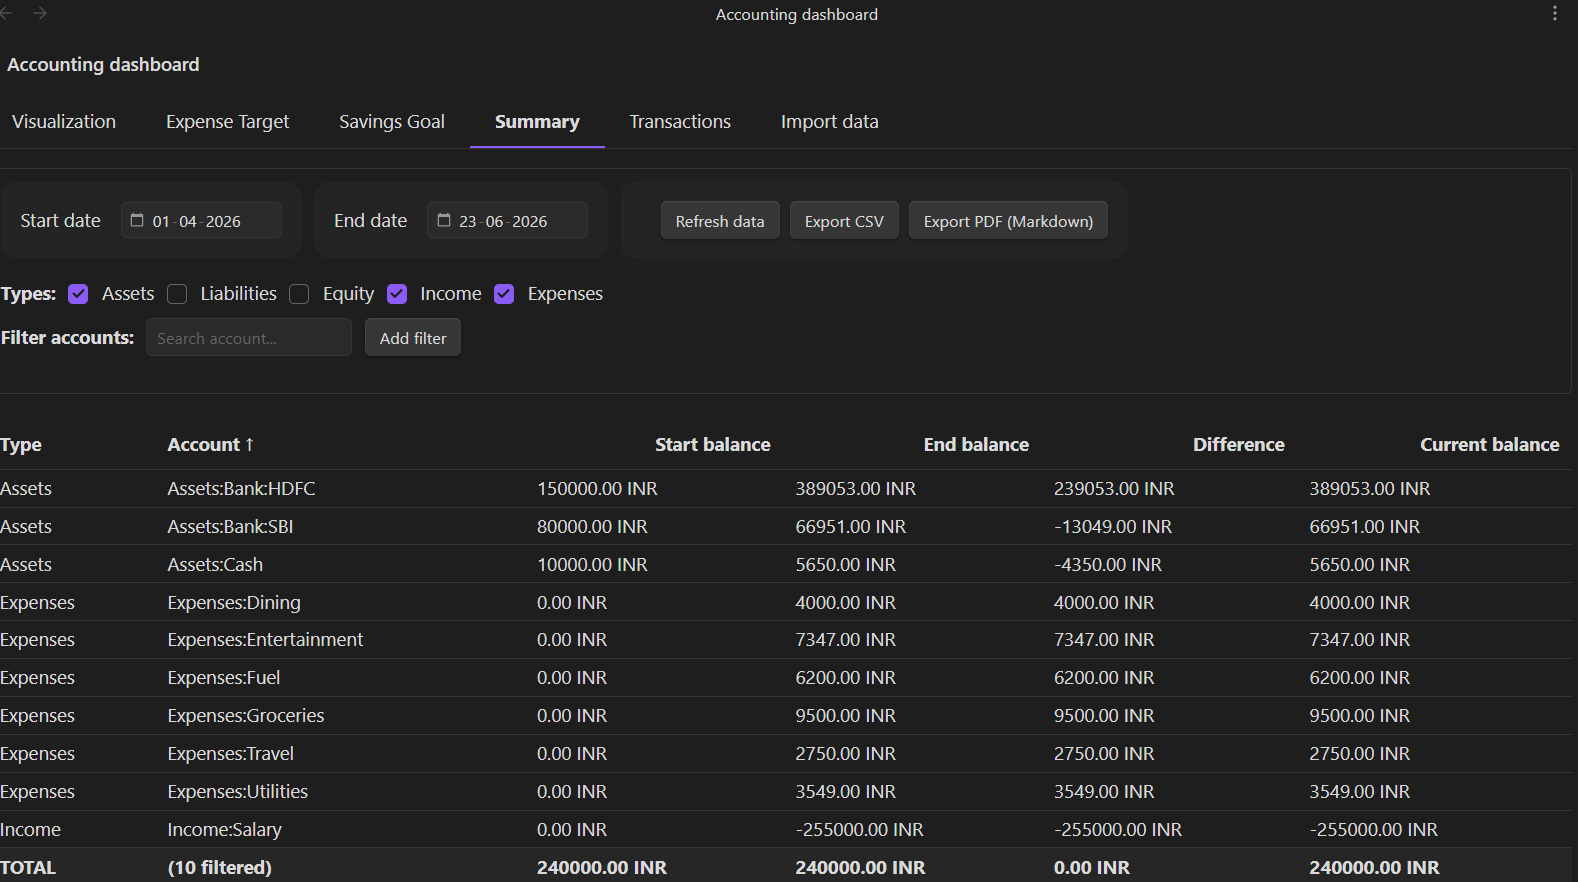
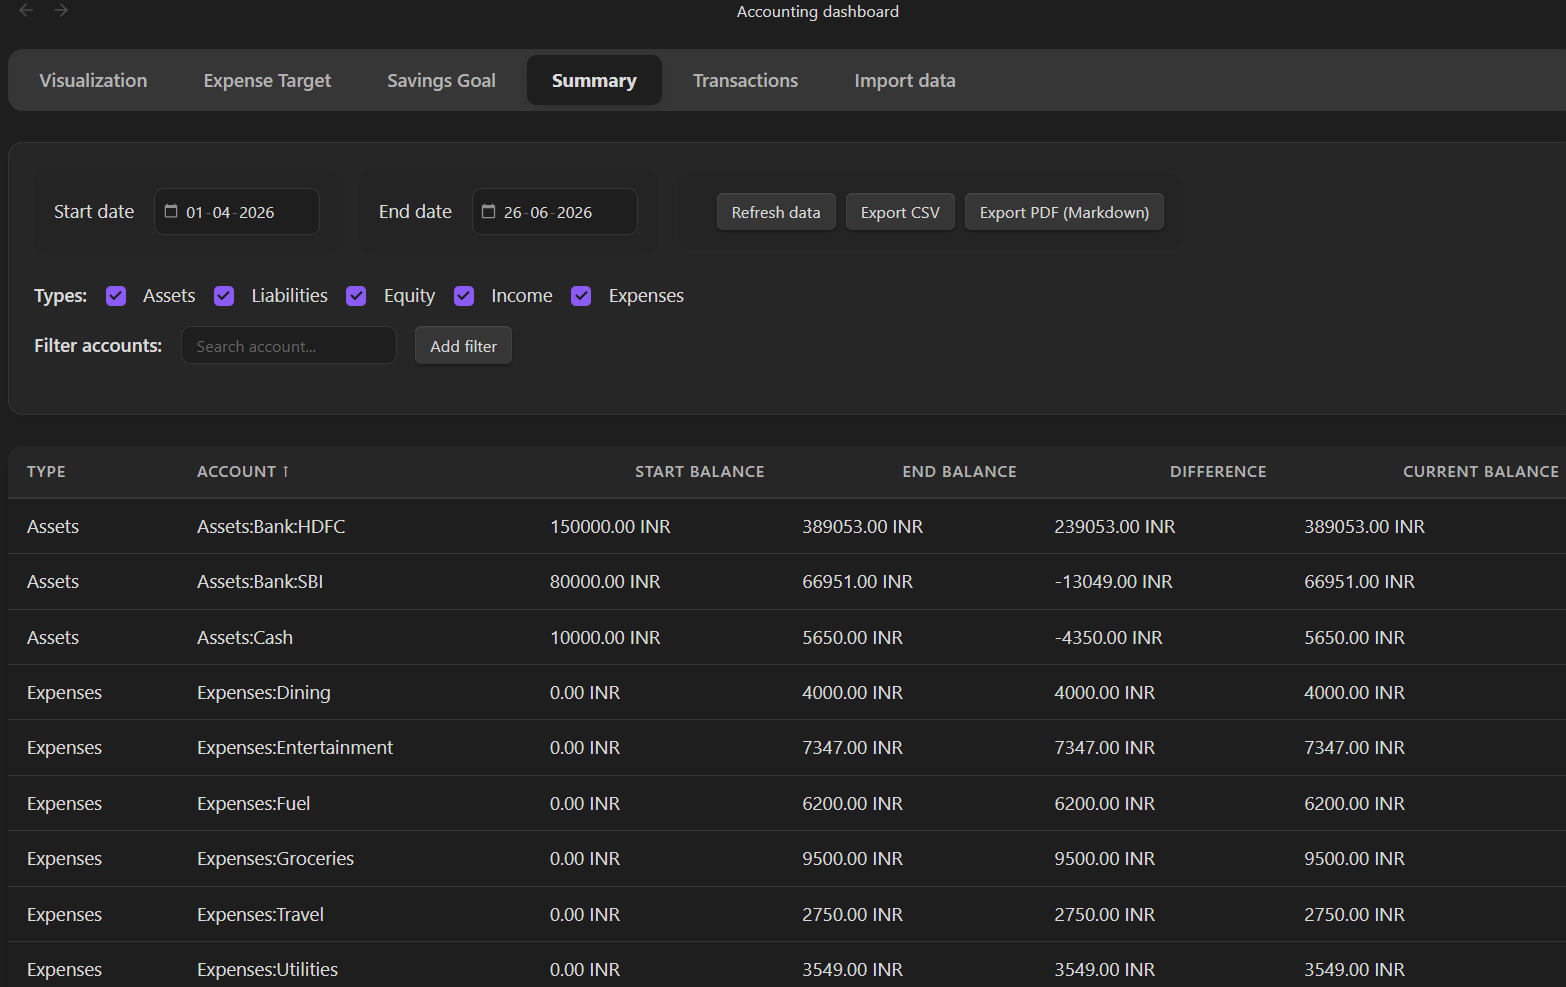
Updated Readme

diff --git a/src/dashboard.ts b/src/dashboard.ts
@@ -17,7 +17,7 @@ export class AccountingDashboardView extends ItemView {
     endDate: string;
 
     // Filters
-    selectedTypes: Set<string> = new Set(['Assets']);
+    selectedTypes: Set<string> = new Set(['Assets', 'Liabilities', 'Equity', 'Income', 'Expenses']);
     selectedAccounts: Set<string> = new Set(); // For Summary Tab
     accountInput: string = "";
 
@@ -913,7 +913,7 @@ export class AccountingDashboardView extends ItemView {
         // Apply Global Filters dynamically
         let balances = this.ledger.getBalances(this.startDate, this.endDate, this.plugin.settings);
         balances = balances.filter(bal => {
-            if (this.selectedTypes.size > 0 && !this.selectedTypes.has(bal.type)) return false;
+            if (!this.selectedTypes.has(bal.type)) return false;
             if (this.selectedAccounts.size > 0 && !this.selectedAccounts.has(bal.account)) return false;
             return true;
         });
@@ -1287,115 +1287,7 @@ export class AccountingDashboardView extends ItemView {
         });
         this.chartInstances.push(cumExpChart);
 
-        // 5: Stacked Area Chart for Asset Composition
-        const assetChartBox = chartsContainer.createEl("div");
-        assetChartBox.addClass("accounting-chart-box");
-        const assetCanvas = assetChartBox.createEl("canvas");
 
-        const assetDatasets = assetAccounts.map((acc, i) => {
-            return {
-                label: acc,
-                data: assetBalancesOverTime[acc],
-                borderColor: `hsl(${(i * 360 / Math.max(assetAccounts.length, 1)) % 360}, 70%, 50%)`,
-                backgroundColor: `hsla(${(i * 360 / Math.max(assetAccounts.length, 1)) % 360}, 70%, 50%, 0.5)`,
-                fill: true,
-                tension: 0.4
-            };
-        });
-
-        const assetChart = new Chart(assetCanvas, {
-            type: 'line',
-            data: {
-                labels: sortedDates,
-                datasets: assetDatasets
-            },
-            options: {
-                responsive: true,
-                maintainAspectRatio: false,
-                plugins: {
-                    title: { display: true, text: 'Asset Composition' },
-                    tooltip: {
-                        mode: 'index',
-                        callbacks: {
-                            label: (context: any) => {
-                                if (this.plugin.settings.hideBalances) return `${context.dataset.label}: ***`;
-                                return `${context.dataset.label}: ${(context.raw as number).toFixed(2)} ${currency}`;
-                            }
-                        }
-                    }
-                },
-                scales: {
-                    x: { ticks: { display: !this.plugin.settings.hideBalances } },
-                    y: { 
-                        stacked: true,
-                        ticks: { display: !this.plugin.settings.hideBalances }
-                    }
-                }
-            }
-        });
-        this.chartInstances.push(assetChart);
-
-        // 6: Sankey Diagram for Cash Flow
-        const sankeyChartBox = chartsContainer.createEl("div");
-        sankeyChartBox.addClass("accounting-chart-box");
-        // Sankey often needs more vertical space
-        sankeyChartBox.style.minHeight = "400px";
-        const sankeyCanvas = sankeyChartBox.createEl("canvas");
-
-        // Filter out tiny flows to keep Sankey readable (optional, but good practice). 
-        // Here we'll show all as requested but if there's >100 edges it might be slow.
-        const sankeyDataArray = Object.values(sankeyDataMap).map(f => ({ from: f.from, to: f.to, flow: f.flow }));
-        
-        // Define colors for nodes based on their type
-        const getColorForAccount = (acc: string) => {
-            if (acc.startsWith("Income")) return "#60a5fa"; // blue
-            if (acc.startsWith("Expenses")) return "#facc15"; // yellow
-            if (acc.startsWith("Assets")) return "#4ade80"; // green
-            if (acc.startsWith("Liabilities")) return "#ef4444"; // red
-            return "#9ca3af"; // gray
-        };
-
-        const sankeyColors: { [key: string]: string } = {};
-        sankeyDataArray.forEach(f => {
-            sankeyColors[f.from] = getColorForAccount(f.from);
-            sankeyColors[f.to] = getColorForAccount(f.to);
-        });
-
-        if (sankeyDataArray.length > 0) {
-            const sankeyChart = new Chart(sankeyCanvas, {
-                type: 'sankey',
-                data: {
-                    datasets: [{
-                        label: 'Cash Flow',
-                        data: sankeyDataArray,
-                        colorFrom: (c: any) => getColorForAccount(c.dataset.data[c.dataIndex].from),
-                        colorTo: (c: any) => getColorForAccount(c.dataset.data[c.dataIndex].to),
-                        colorMode: 'gradient', // or 'from' or 'to'
-                        /* @ts-ignore */
-                        size: 'max',
-                    }]
-                },
-                options: {
-                    responsive: true,
-                    maintainAspectRatio: false,
-                    plugins: {
-                        title: { display: true, text: 'Cash Flow Map (Sankey)' },
-                        tooltip: {
-                            callbacks: {
-                                label: (context: any) => {
-                                    const d = context.raw;
-                                    if (this.plugin.settings.hideBalances) return `${d.from} → ${d.to}: ***`;
-                                    return `${d.from} → ${d.to}: ${d.flow.toFixed(2)} ${currency}`;
-                                }
-                            }
-                        }
-                    }
-                }
-            });
-            this.chartInstances.push(sankeyChart);
-        } else {
-            sankeyChartBox.createEl("div", { text: "No cash flow data available for selected period." }).style.padding = "20px";
-        }
     }
 
     createKpiCard(container: HTMLElement, title: string, value: string) {
@@ -1441,7 +1333,7 @@ export class AccountingDashboardView extends ItemView {
         // Apply Filters
         balances = balances.filter(bal => {
             // Type Filter
-            if (this.selectedTypes.size > 0 && !this.selectedTypes.has(bal.type)) {
+            if (!this.selectedTypes.has(bal.type)) {
                 return false;
             }
             // Account Filter
@@ -1743,7 +1635,7 @@ export class AccountingDashboardView extends ItemView {
 
         let balances = this.ledger.getBalances(this.startDate, this.endDate, this.plugin.settings);
         balances = balances.filter(bal => {
-            if (this.selectedTypes.size > 0 && !this.selectedTypes.has(bal.type)) return false;
+            if (!this.selectedTypes.has(bal.type)) return false;
             if (this.selectedAccounts.size > 0 && !Array.from(this.selectedAccounts).some(pattern => this.matchesWildcard(bal.account, pattern))) return false;
             return true;
         });
